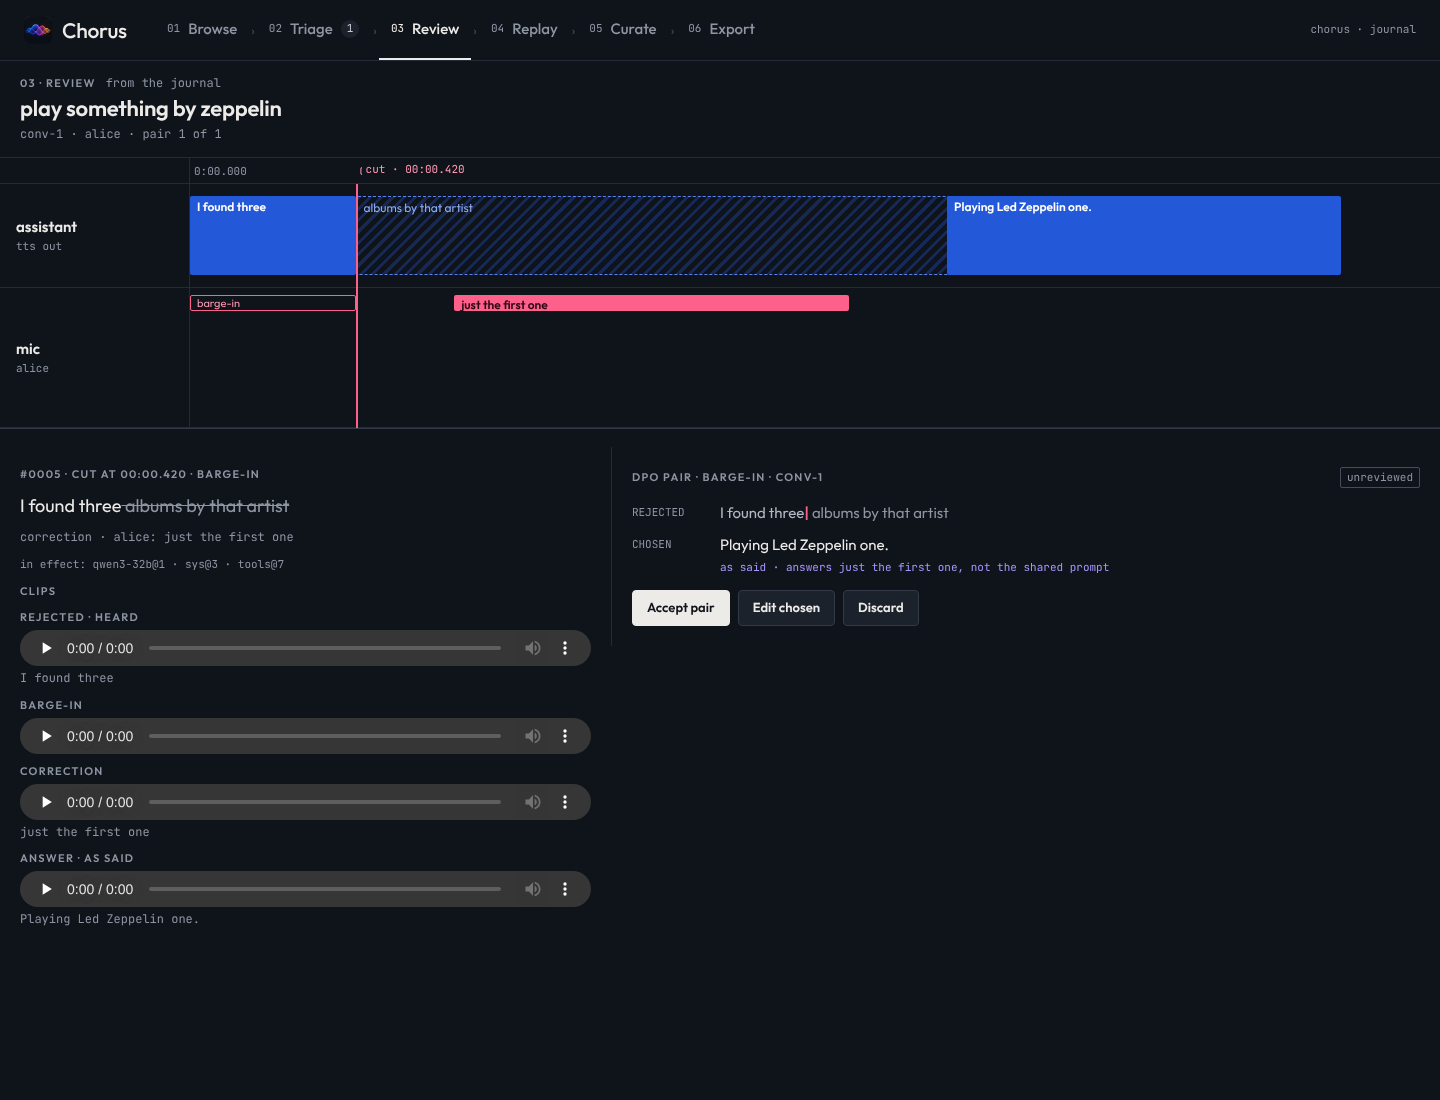
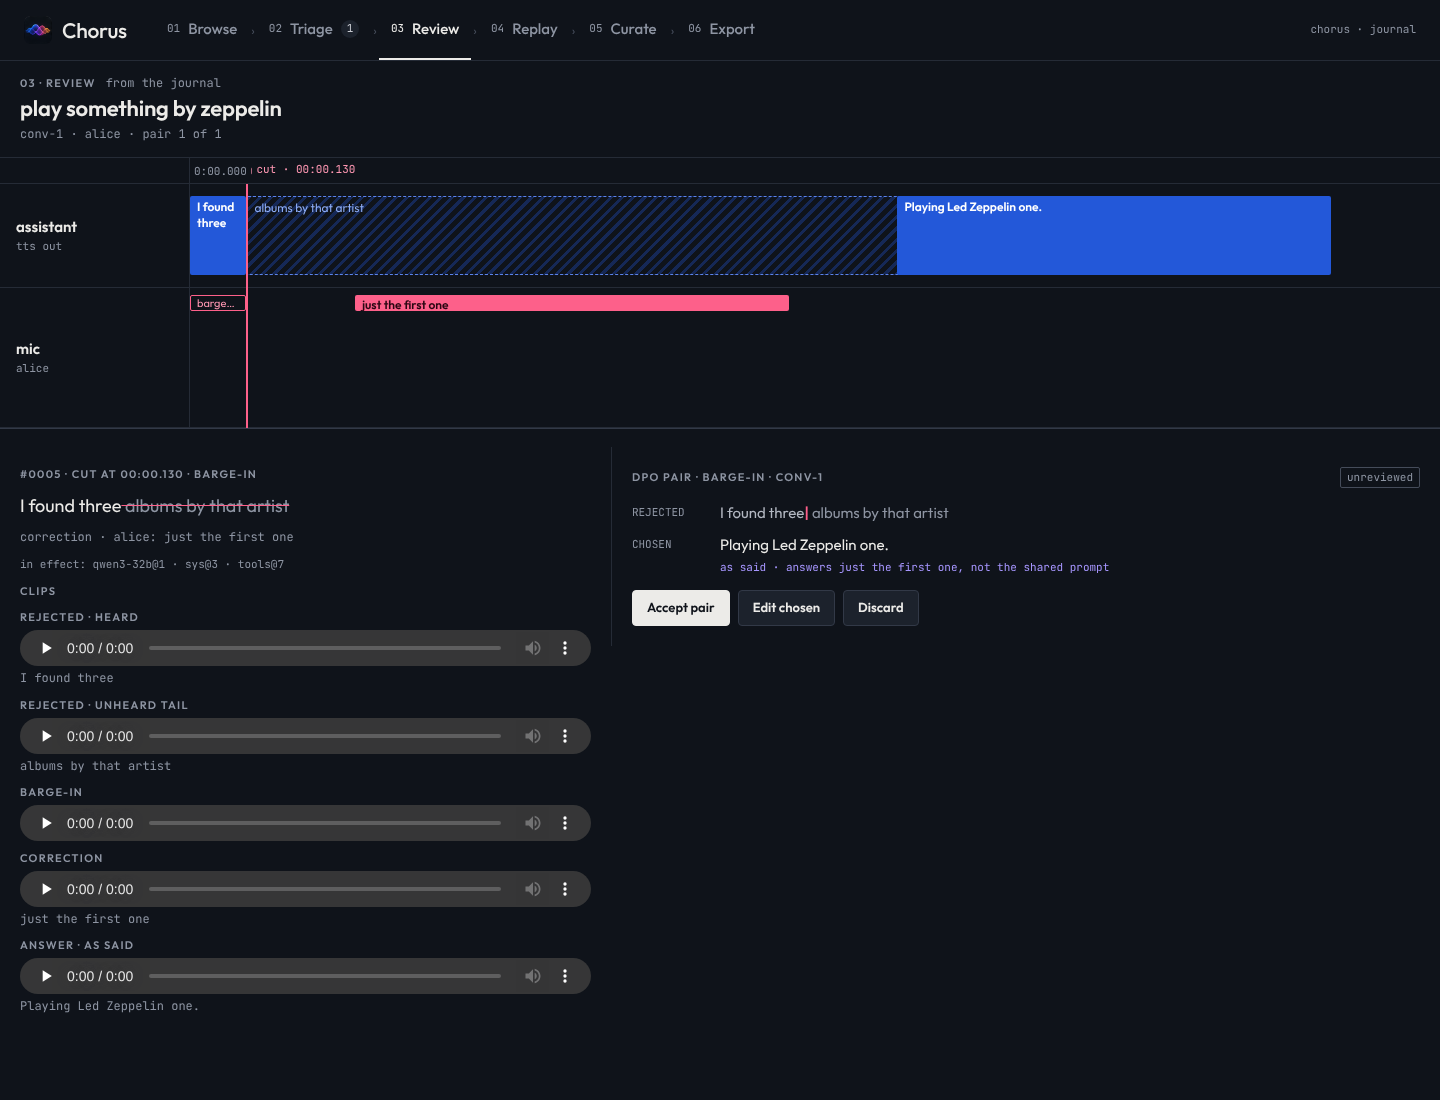
fix(reviewui): draw and play the cut at the DAC-confirmed frames
The timeline placed the cut at the detection snapshot and handed the
player the whole truncated blob, which kept playing audio the user
never heard. The cut now sits at frames_played after the clips heard
before it, the heard player stops there, and the unheard tail is its
own clip.

Claude-Session: https://claude.ai/code/session_01QeDqDQeJJW3nEkqkAYhEYM

diff --git a/cmd/reviewui/review.go b/cmd/reviewui/review.go
@@ -7,6 +7,7 @@ import (
 	"net/http"
 	"net/url"
 
+	"github.com/teaganglenn/chorus/internal/bridge"
 	"github.com/teaganglenn/chorus/internal/harvest"
 	"github.com/teaganglenn/chorus/internal/reviewui/audio"
 	"github.com/teaganglenn/chorus/internal/reviewui/ui"
@@ -22,6 +23,9 @@ type clipView struct {
 }
 
 func audioSrc(ref string) string { return "/audio?ref=" + url.QueryEscape(ref) }
+
+// framesMS is how long n device frames play.
+func framesMS(n int) int { return n * 1000 / bridge.SampleRate }
 
 // durations reads each ref's length from the blob store. A missing blob is
 // zero: the page still renders, the timeline just cannot size that clip.
@@ -61,6 +65,31 @@ type reviewLayout struct {
 // gapMS separates clips whose true spacing the clips themselves cannot say.
 const gapMS = 250
 
+// cutMS places the cut on the turn's axis. frames_played is the
+// DAC-confirmed point within the cut clip, which plays after every clip the
+// user already heard; the detection snapshot is the fallback for a cut that
+// discarded unstarted clips and so confirmed no frames.
+func cutMS(p harvest.Pair, dur map[string]int) int {
+	if p.CutFrames == 0 {
+		return p.BargeInPositionMS
+	}
+	ms := framesMS(p.CutFrames)
+	for _, ref := range heardBefore(p) {
+		ms += dur[ref]
+	}
+	return ms
+}
+
+// heardBefore is every rejected clip that finished before the cut one. The
+// cut clip is the last: Audio.Rejected is in the order the user heard, and
+// nothing plays after a truncation.
+func heardBefore(p harvest.Pair) []string {
+	if p.CutFrames == 0 || len(p.Audio.Rejected) == 0 {
+		return p.Audio.Rejected
+	}
+	return p.Audio.Rejected[:len(p.Audio.Rejected)-1]
+}
+
 func layout(p harvest.Pair, dur map[string]int) reviewLayout {
 	sum := func(refs []string) int {
 		n := 0
@@ -69,7 +98,7 @@ func layout(p harvest.Pair, dur map[string]int) reviewLayout {
 		}
 		return n
 	}
-	l := reviewLayout{cut: p.BargeInPositionMS}
+	l := reviewLayout{cut: cutMS(p, dur)}
 	l.rejEnd = max(sum(p.Audio.Rejected), l.cut)
 	if l.rejEnd == 0 {
 		l.rejEnd = gapMS // an unsized, uncut turn still gets a visible region
@@ -145,6 +174,17 @@ func clips(p harvest.Pair) []clipView {
 		}
 		out = add(out, label, ui.ToneVoice, ref, p.Rejected)
 	}
+	// The cut clip's blob keeps the rendered tail the user never heard
+	// (SPEC §9.1), so its heard player stops at the DAC-confirmed frame and
+	// the tail plays on its own.
+	if n := len(out); p.CutFrames > 0 && n > 0 {
+		out[n-1].Src += fmt.Sprintf("&to=%d", p.CutFrames)
+		out = append(out, clipView{
+			Label: "rejected · unheard tail", Tone: ui.ToneVoice,
+			Src:  audioSrc(p.Audio.Rejected[len(p.Audio.Rejected)-1]) + fmt.Sprintf("&from=%d", p.CutFrames),
+			Text: p.RejectedUnheard,
+		})
+	}
 	out = add(out, "barge-in", ui.TonePeople, p.Audio.BargeIn, "")
 	out = add(out, "correction", ui.TonePeople, p.Audio.Correction, p.Heard)
 	for i, ref := range p.Audio.AsSaid {
@@ -157,9 +197,9 @@ func clips(p harvest.Pair) []clipView {
 	return out
 }
 
-func reviewInspector(p harvest.Pair) ui.Inspector {
+func reviewInspector(p harvest.Pair, l reviewLayout) ui.Inspector {
 	return ui.Inspector{
-		Cap:     fmt.Sprintf("#%04d · cut at %s · barge-in", p.Seq.Cut, ui.Timecode(float64(p.BargeInPositionMS)/1000)),
+		Cap:     fmt.Sprintf("#%04d · cut at %s · barge-in", p.Seq.Cut, ui.Timecode(float64(l.cut)/1000)),
 		Body:    p.Rejected,
 		Unheard: p.RejectedUnheard,
 		Meta:    "correction · " + p.HeardSpeaker + ": " + p.Heard,
@@ -228,7 +268,7 @@ func (s *server) review(w http.ResponseWriter, r *http.Request) {
 			Actions: actions,
 		},
 		"Timeline":  reviewTimeline(sel.H, l),
-		"Inspector": reviewInspector(sel.H),
+		"Inspector": reviewInspector(sel.H, l),
 		"Clips":     clips(sel.H),
 		"Pair":      s.pairView(sel, ui.PairModeView, ""),
 	})

diff --git a/cmd/reviewui/server_test.go b/cmd/reviewui/server_test.go
@@ -236,7 +236,7 @@ func TestReviewPageDrawsTheCutOnTheTimeline(t *testing.T) {
 	s, _ := newTestServer(t)
 	h := get(t, s, "/review")
 	for _, want := range []string{
-		"cut · 00:00.420",            // the overlay, at the recorded position
+		"cut · 00:00.130",            // the DAC-confirmed 2080 frames, not the detection snapshot
 		"I found three",              // the heard half of the rejected turn
 		" albums by that artist",     // the unheard tail, drawn hatched
 		"just the first one",         // the correction on the mic track
@@ -278,5 +278,17 @@ func TestReviewPageWithoutBargeInsSaysSo(t *testing.T) {
 	h := get(t, s, "/review")
 	if !strings.Contains(h, "Nothing to review.") {
 		t.Error("an empty journal should show the empty state")
+	}
+}
+
+// verifies SPEC §9.2
+func TestHeardPlaybackIsBoundedAtTheConfirmedCut(t *testing.T) {
+	s, _ := newTestServer(t)
+	h := get(t, s, "/review")
+	if !strings.Contains(h, "/audio?ref="+url.QueryEscape("blob://tts/s1")+"&amp;to=2080") {
+		t.Error("the heard player is not bounded at frames_played; it would play the unheard tail")
+	}
+	if !strings.Contains(h, "/audio?ref="+url.QueryEscape("blob://tts/s1")+"&amp;from=2080") {
+		t.Error("the unheard tail is not offered as its own clip")
 	}
 }
